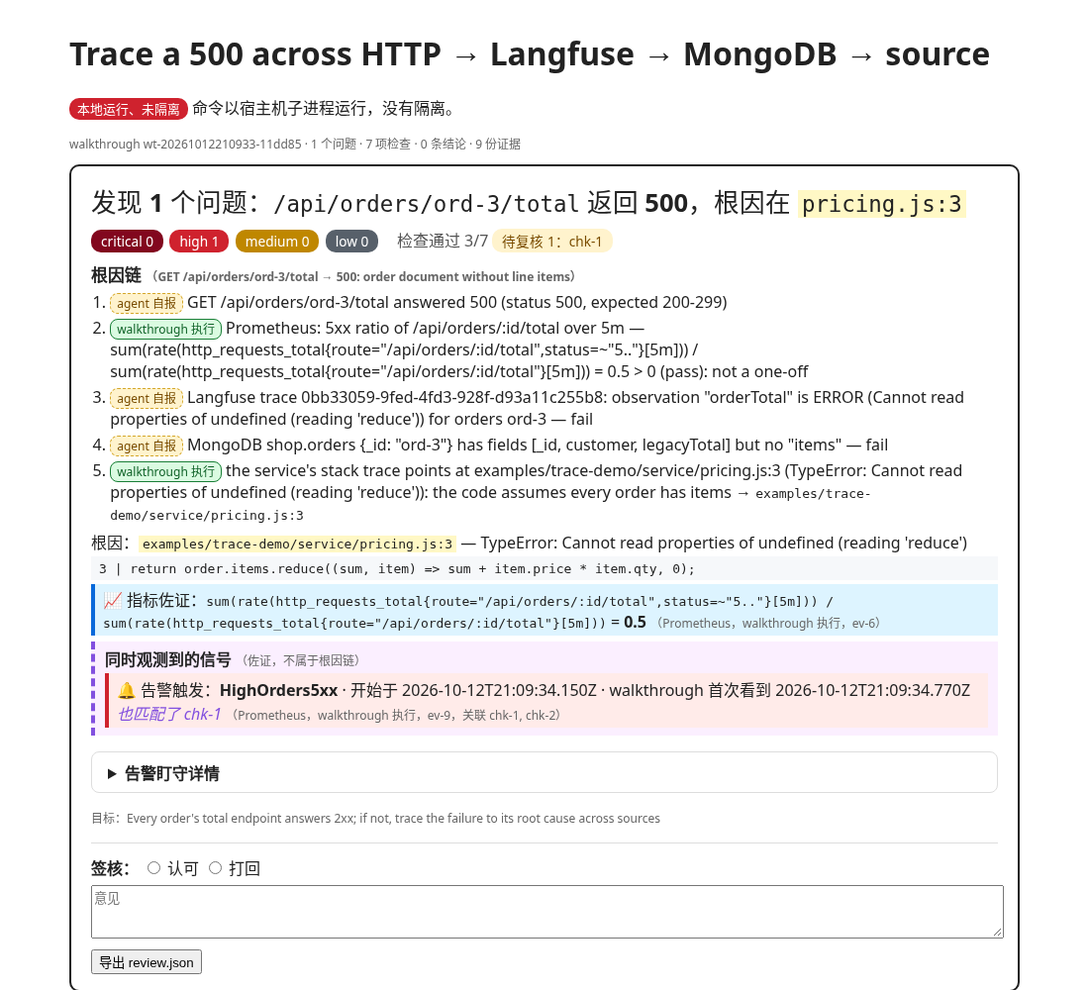
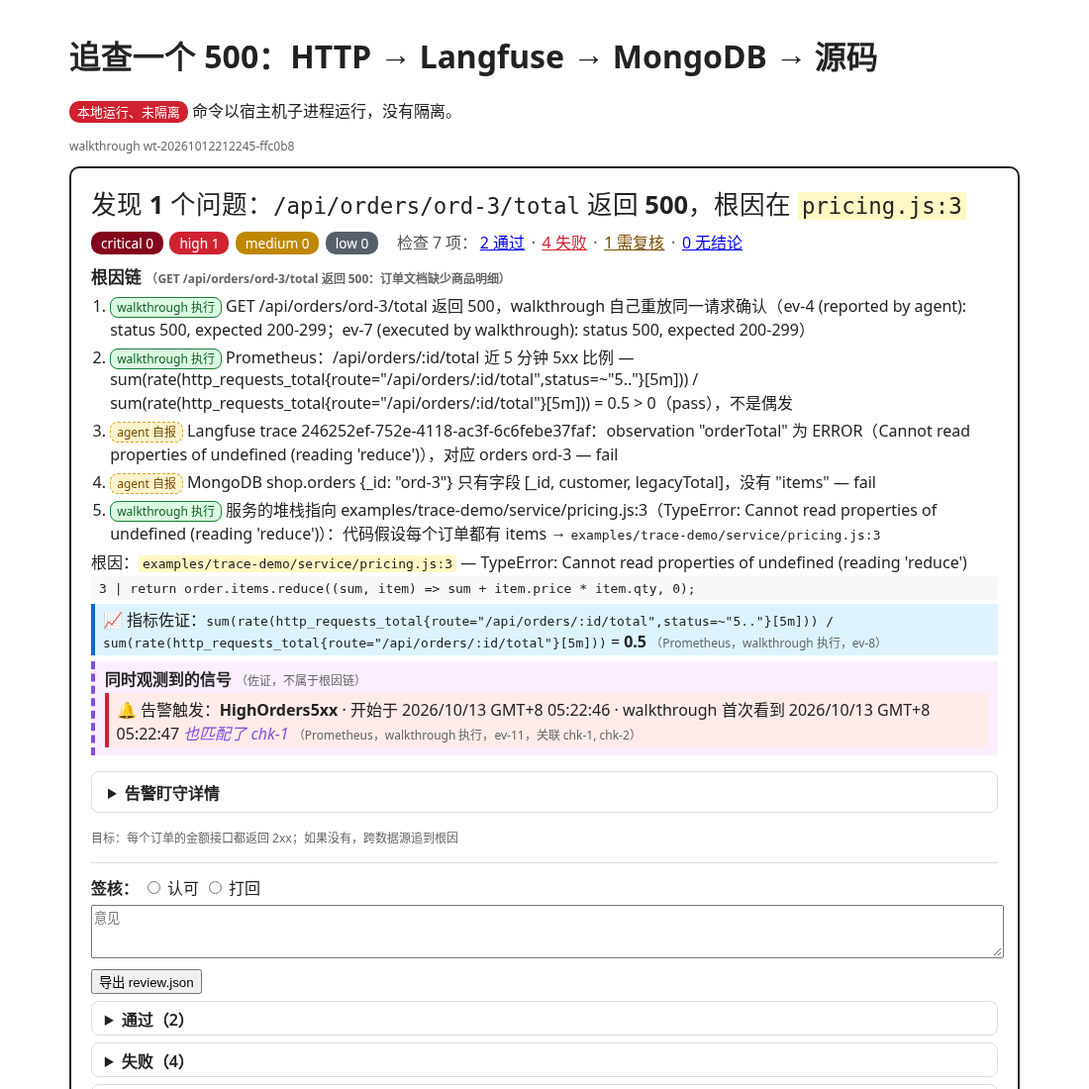
demo: core replay backs chain step 1; consistent check counts (通过/失败/需复核/无结论, clickable); local-time rendering with UTC tooltip; Chinese demo data; prompt asks for user's language

Changed region(s): [[0.0618, 0.031, 0.9273, 0.992], [0.9273, 0.992, 0.9582, 1.0], [0.0618, 0.992, 0.0927, 1.0]]

diff --git a/src/core/render.ts b/src/core/render.ts
@@ -5,12 +5,32 @@ import { harSummary, parseHar } from "./har.js";
 import { metricSummary } from "./metrics.js";
 import { ALERTS_EVIDENCE } from "./alerts.js";
 
+/** Zone for the static (no-JS) time text: explicit option, WALKTHROUGH_TZ, TZ, else the system zone. */
+export function renderTimeZone(explicit?: string): string {
+  for (const z of [explicit, process.env.WALKTHROUGH_TZ, process.env.TZ]) {
+    if (!z) continue;
+    try { new Intl.DateTimeFormat("en", { timeZone: z }); return z; } catch { /* invalid zone: try next */ }
+  }
+  return Intl.DateTimeFormat().resolvedOptions().timeZone || "UTC";
+}
+export function fmtTime(d: Date, tz: string): string {
+  const parts = new Intl.DateTimeFormat("sv-SE", { timeZone: tz, year: "numeric", month: "2-digit", day: "2-digit", hour: "2-digit", minute: "2-digit", second: "2-digit", hour12: false }).format(d);
+  return `${parts} (${tz})`;
+}
 const esc = (s: string) =>
   s.replace(/&/g, "&amp;").replace(/</g, "&lt;").replace(/>/g, "&gt;").replace(/"/g, "&quot;").replace(/'/g, "&#39;");
 
 /** Render a static HTML walkthrough: one section per question. Returns the HTML path. */
-export function renderWalkthrough(core: WalkthroughCore, id: string): string {
+export function renderWalkthrough(core: WalkthroughCore, id: string, opts: { timeZone?: string } = {}): string {
   const w = core.load(id);
+  const tz = renderTimeZone(opts.timeZone);
+  /** No-JS fallback in the configured zone; the page script re-renders it in the viewer's zone. UTC ISO in the tooltip. */
+  const t = (iso?: string) => {
+    if (!iso) return "?";
+    const d = new Date(iso);
+    if (Number.isNaN(d.getTime())) return esc(iso);
+    return `<time datetime="${esc(d.toISOString())}" title="${esc(d.toISOString())} (UTC)">${esc(fmtTime(d, tz))}</time>`;
+  };
   const local = w.sandbox.backend === "local";
   const localBadge = local ? `<span class="badge local" title="local run, not isolated">本地运行、未隔离</span> ` : "";
   const count = (f: (c: (typeof w.claims)[number]) => boolean) => w.claims.filter(f).length;
@@ -23,10 +43,10 @@ export function renderWalkthrough(core: WalkthroughCore, id: string): string {
   const evidenceHtml = (ids: string[]) => ids.map((evId) => {
     const ev = w.evidence.find((e) => e.id === evId);
     if (!ev) return `<p class="missing">missing evidence ${esc(evId)}</p>`;
-    const meta = `<div class="meta">${esc(ev.id)} · ${esc(ev.kind ?? ev.type)} · ${ev.executedBy === "agent" ? '<span class="prov agent">agent 自报</span>' : '<span class="prov core">walkthrough 执行</span>'} · ${esc(ev.source)}${ev.mcpCall ? ` · <code class="mcpcall">${esc(ev.mcpCall.server)}.${esc(ev.mcpCall.tool)}(${esc(JSON.stringify(ev.mcpCall.params))})</code>` : ""}${ev.links?.length ? ` · linked ${esc(ev.links.map((l) => `${l.evidenceId} by "${l.key}"`).join(", "))}` : ""} · sha256 ${esc(ev.sha256.slice(0, 12))}… · ${esc(ev.createdAt)}</div>`;
+    const meta = `<div class="meta">${esc(ev.id)} · ${esc(ev.kind ?? ev.type)} · ${ev.executedBy === "agent" ? '<span class="prov agent">agent 自报</span>' : '<span class="prov core">walkthrough 执行</span>'} · ${esc(ev.source)}${ev.mcpCall ? ` · <code class="mcpcall">${esc(ev.mcpCall.server)}.${esc(ev.mcpCall.tool)}(${esc(JSON.stringify(ev.mcpCall.params))})</code>` : ""}${ev.links?.length ? ` · linked ${esc(ev.links.map((l) => `${l.evidenceId} by "${l.key}"`).join(", "))}` : ""} · sha256 ${esc(ev.sha256.slice(0, 12))}… · ${t(ev.createdAt)}</div>`;
     const har = ev.type === "har" ? parseHar(core.readEvidenceText(w, ev)) : undefined;
     const alertDoc = ev.kind === "alert" ? (() => { try { const j = JSON.parse(core.readEvidenceText(w, ev)); return j.format === ALERTS_EVIDENCE ? j : undefined; } catch { return undefined; } })() : undefined;
-    if (alertDoc) return `<figure data-type="alert" data-prov="core">${meta}<pre class="alert-summary">${esc(`${alertDoc.note} · window ${alertDoc.window.start} → ${alertDoc.window.end} · ${alertDoc.polls} poll(s)`)}${(alertDoc.firing as { labels: Record<string, string>; annotations: Record<string, string> }[]).map((a) => esc(`\n🔔 ${a.labels.alertname ?? "?"} ${JSON.stringify(a.labels)} ${a.annotations.summary ?? ""}`)).join("")}</pre><details><summary>alerts (redacted)</summary><pre>${esc(core.readEvidenceText(w, ev).slice(0, 8000))}</pre></details></figure>`;
+    if (alertDoc) return `<figure data-type="alert" data-prov="core">${meta}<pre class="alert-summary">${esc(alertDoc.note)} · 窗口 ${t(alertDoc.window.start)} → ${t(alertDoc.window.end)}${esc(` · ${alertDoc.polls} poll(s)`)}${(alertDoc.firing as { labels: Record<string, string>; annotations: Record<string, string> }[]).map((a) => esc(`\n🔔 ${a.labels.alertname ?? "?"} ${JSON.stringify(a.labels)} ${a.annotations.summary ?? ""}`)).join("")}</pre><details><summary>alerts (redacted)</summary><pre>${esc(core.readEvidenceText(w, ev).slice(0, 8000))}</pre></details></figure>`;
     const met = ev.kind === "metric" ? metricSummary(core.readEvidenceText(w, ev)) : undefined;
     const body = met ? `<pre class="metric-summary">${esc(met.query)} = ${esc(String(met.value ?? (met.ok ? "(no single value)" : "(query failed)")))}</pre><details><summary>Prometheus response</summary><pre>${esc(core.readEvidenceText(w, ev).slice(0, 8000))}</pre></details>`
       : ev.type === "screenshot"
@@ -58,19 +78,17 @@ export function renderWalkthrough(core: WalkthroughCore, id: string): string {
   const alertLine = (f: (typeof findings)[number]) => {
     const items = (w.alertWatches ?? []).flatMap((aw) => aw.matched.filter((m) => m.findingId === f.id).map((m) => {
       const also = m.checkIds.filter((c) => c !== f.checkId);
-      return `<div class="alert-confirm" data-alert="${esc(m.alertname)}" data-first-seen="${esc(m.firstSeenAt ?? "")}">🔔 告警触发：<b>${esc(m.alertname)}</b> · 开始于 <time>${esc(m.activeAt ?? "?")}</time> · walkthrough 首次看到 <time>${esc(m.firstSeenAt ?? "?")}</time>${aw.outcome === "interrupted" ? ' <span class="chip interrupted">盯守中断</span>' : ""}${also.length ? ` <span class="also-matched" data-also="${esc(also.join(","))}">也匹配了 ${esc(also.join(", "))}</span>` : ""} <span class="meta">（Prometheus，walkthrough 执行，${esc(aw.evidenceId)}，关联 ${esc(m.checkIds.join(", "))}）</span></div>`;
+      return `<div class="alert-confirm" data-alert="${esc(m.alertname)}" data-first-seen="${esc(m.firstSeenAt ?? "")}">🔔 告警触发：<b>${esc(m.alertname)}</b> · 开始于 ${t(m.activeAt)} · walkthrough 首次看到 ${t(m.firstSeenAt)}${aw.outcome === "interrupted" ? ' <span class="chip interrupted">盯守中断</span>' : ""}${also.length ? ` <span class="also-matched" data-also="${esc(also.join(","))}">也匹配了 ${esc(also.join(", "))}</span>` : ""} <span class="meta">（Prometheus，walkthrough 执行，${esc(aw.evidenceId)}，关联 ${esc(m.checkIds.join(", "))}）</span></div>`;
     }));
     return items.length ? `<div class="corroborating" data-corroborating="${items.length}"><b>同时观测到的信号</b> <span class="meta">（佐证，不属于根因链）</span>${items.join("")}</div>` : "";
   };
   const watches = w.alertWatches ?? [];
   const unmatchedAlerts = watches.flatMap((aw) => aw.unmatched.map((u) => ({ ...u, ev: aw.evidenceId })));
   const outcomeTxt = (aw: (typeof watches)[number]) => aw.outcome === "interrupted" ? "⚠ 盯守中断（数据不完整，不代表窗口内无告警）" : aw.outcome === "stopped_early" ? "窗口结束前已收取" : "窗口已走完";
-  const alertsBlock = watches.length ? `<div class="alerts-sum">${watches.map((aw) => `<div class="alert-window ${esc(aw.outcome)}" data-outcome="${esc(aw.outcome)}" data-firing="${aw.matched.length + aw.unmatched.length}">🔔 告警盯守 ${esc(aw.watchId)} ${esc(aw.start)} → ${esc(aw.end)} (${aw.polls} 次轮询，${esc(aw.evidenceId)}, ${esc(outcomeTxt(aw))}${aw.finalizedBy === "sign_off" ? "，签核时自动结束" : ""}): ${aw.matched.length + aw.unmatched.length ? `已关联 ${aw.matched.length}，未关联 ${aw.unmatched.length}` : aw.errors?.length && aw.errors.length && aw.polls === 0 ? "无轮询" : aw.outcome === "interrupted" ? "中断前未见触发的告警" : aw.errors?.length ? `轮询出错：${esc(aw.errors.join("; "))}` : "窗口内无告警"}</div>`).join("")}
+  const alertsBlock = watches.length ? `<div class="alerts-sum">${watches.map((aw) => `<div class="alert-window ${esc(aw.outcome)}" data-outcome="${esc(aw.outcome)}" data-firing="${aw.matched.length + aw.unmatched.length}">🔔 告警盯守 ${esc(aw.watchId)} ${t(aw.start)} → ${t(aw.end)} (${aw.polls} 次轮询，${esc(aw.evidenceId)}, ${esc(outcomeTxt(aw))}${aw.finalizedBy === "sign_off" ? "，签核时自动结束" : ""}): ${aw.matched.length + aw.unmatched.length ? `已关联 ${aw.matched.length}，未关联 ${aw.unmatched.length}` : aw.errors?.length && aw.errors.length && aw.polls === 0 ? "无轮询" : aw.outcome === "interrupted" ? "中断前未见触发的告警" : aw.errors?.length ? `轮询出错：${esc(aw.errors.join("; "))}` : "窗口内无告警"}</div>`).join("")}
 ${unmatchedAlerts.length ? `<div class="unmatched-alerts" data-unmatched="${unmatchedAlerts.length}"><b>未关联的告警</b>（没有检查的匹配规则命中，未挂到任何问题上）：<ul>${unmatchedAlerts.map((u) => `<li><span class="chip ${esc(u.severity)}">${esc(u.severity)}</span> ${esc(u.alertname)} <code>${esc(JSON.stringify(u.labels))}</code> <span class="meta">${esc(u.ev)}</span></li>`).join("")}</ul></div>` : ""}</div>` : "";
   const autoFin = w.signoff?.autoFinalizedWatches ?? [];
   const autoFinNote = autoFin.length ? `<div class="auto-finalized" data-auto-finalized="${autoFin.length}">⚠ 签核时自动结束的告警盯守：${autoFin.map((a) => `<span class="aw ${esc(a.outcome)}" data-outcome="${esc(a.outcome)}">${esc(a.watchId)} (${a.outcome === "interrupted" ? "<b>interrupted</b> — 数据不完整" : esc(a.outcome)})</span>`).join(", ")}</div>` : "";
-  const passed = results.filter((r) => r.status === "pass").length;
-  const needsReview = results.filter((r) => r.status === "pass_needs_review");
   const sevRank = (x: string) => { const i = (SEV as readonly string[]).indexOf(x); return i < 0 ? 9 : i; };
   const ordered = [...findings].sort((x, y) => sevRank(x.severity) - sevRank(y.severity));
   const top = ordered[0];
@@ -89,12 +107,21 @@ ${unmatchedAlerts.length ? `<div class="unmatched-alerts" data-unmatched="${unma
     const src = srcOf(l.source_ref);
     return `<li class="rc-step" data-prov="${prov}">${provLabel(prov)} ${esc(l.claim)}${src ? ` → <code>${esc(src.file)}:${src.line}</code>` : ""}</li>`;
   }).join("")}</ol>`;
+  const allChecks = w.checks ?? [];
+  const statusOf = (cid: string) => results.find((r) => r.checkId === cid)?.status;
+  const buckets: [string, string, (st?: string) => boolean][] = [
+    ["pass", "通过", (st) => st === "pass"], ["fail", "失败", (st) => st === "fail"],
+    ["needs-review", "需复核", (st) => st === "pass_needs_review"], ["none", "无结论", (st) => st !== "pass" && st !== "fail" && st !== "pass_needs_review"],
+  ];
+  const grouped = buckets.map(([key, label, f]) => ({ key, label, list: allChecks.filter((c) => f(statusOf(c.id))) }));
+  const checkCounts = `<span class="check-counts" data-total="${allChecks.length}">检查 ${allChecks.length} 项：${grouped.map((g) => `<a class="cc cc-${g.key}" href="#checks-${g.key}" data-status="${g.key}" data-count="${g.list.length}"${g.key === "needs-review" ? ` data-needs-review="${g.list.length}"` : ""} onclick="var d=document.getElementById('checks-${g.key}');if(d)d.open=true">${g.list.length} ${g.label}</a>`).join(" · ")}</span>`;
+  const checkLists = grouped.map((g) => `<details class="check-bucket" id="checks-${g.key}" data-status="${g.key}"><summary>${g.label}（${g.list.length}）</summary>${g.list.length ? `<ul>${g.list.map((c) => { const r = results.find((x) => x.checkId === c.id); return `<li data-check="${esc(c.id)}"><code>${esc(c.id)}</code> ${esc(c.intent)}${r?.reasons.length ? ` <span class="meta">— ${esc(r.reasons.join("; "))}</span>` : ""}</li>`; }).join("")}</ul>` : "<p class=\"meta\">无</p>"}</details>`).join("");
   const verdict = `<section class="verdict" id="verdict">
 <div class="headline" data-findings="${findings.length}">${top
     ? `发现 <b>${findings.length}</b> 个问题：${sentence(top)}`
     : "未发现问题"}</div>
 <div class="sev">${SEV.map((s) => `<span class="chip ${s}" data-sev="${s}">${s} ${sevCount(s)}</span>`).join("")}
-<span class="checks-sum">检查通过 ${passed + needsReview.length}/${results.length}</span> <span class="chip needs-review" data-needs-review="${needsReview.length}" title="只有 agent 自报证据的通过项，需人工复核">待复核 ${needsReview.length}${needsReview.length ? `：${esc(needsReview.map((r) => r.checkId).join(", "))}` : ""}</span></div>
+${checkCounts}</div>
 ${top ? `<div class="top-finding" data-finding="${esc(top.id)}"><h3>根因链 <span class="meta">（${esc(top.title)}）</span></h3>
 ${firstChain(top)}
 <div class="rc">根因：${rootCauseLine(top)}</div>${metricLine(top)}${alertLine(top)}</div>` : ""}
@@ -110,6 +137,7 @@ ${w.goal ? `<p class="goal meta">目标：${esc(w.goal)}</p>` : ""}
 ${autoFinNote}
 ${w.signoff ? `<div class="signed ${esc(w.signoff.decision)}">已签核：<b>${w.signoff.decision === "accept" ? "认可" : "打回"}</b>${w.signoff.comment ? ` — ${esc(w.signoff.comment)}` : ""}</div>` : ""}
 </div>
+<div class="check-lists">${checkLists}</div>
 </section>`;
   const findingDetails = findings.map((f) => {
     const steps = f.root_cause_chain.map((l, i) => {
@@ -129,7 +157,7 @@ ${f.repro_steps.length ? `<p><b>Repro:</b></p><ol>${f.repro_steps.map((r) => `<l
   }).join("\n");
   const row = (c: NonNullable<typeof w.checks>[number]) => {
     const r = results.find((x) => x.checkId === c.id);
-    return `<tr class="${esc(r?.status ?? "notrun")}"><td>${esc(c.id)} ${esc(c.intent)}<div class="meta">${esc(c.method)}: ${esc(c.target)}${c.appended ? ` · 追查中追加 after ${esc(c.appended.triggeringEvidenceId)} (log #${c.appended.logSeq}, ${esc(c.appended.at)})` : ""}</div></td><td><code>${esc(JSON.stringify(c.expect))}</code></td><td>${esc(r?.status ?? "not run")}${r?.reasons.length ? `: ${esc(r.reasons.join("; "))}` : ""}</td><td>${esc((r?.evidenceIds ?? []).join(", "))}</td></tr>`;
+    return `<tr class="${esc(r?.status ?? "notrun")}"><td>${esc(c.id)} ${esc(c.intent)}<div class="meta">${esc(c.method)}: ${esc(c.target)}${c.appended ? ` · 追查中追加 after ${esc(c.appended.triggeringEvidenceId)} (log #${c.appended.logSeq}, ${t(c.appended.at)})` : ""}</div></td><td><code>${esc(JSON.stringify(c.expect))}</code></td><td>${esc(r?.status ?? "not run")}${r?.reasons.length ? `: ${esc(r.reasons.join("; "))}` : ""}</td><td>${esc((r?.evidenceIds ?? []).join(", "))}</td></tr>`;
   };
   const head = "<tr><th>check</th><th>expected (judged by core)</th><th>result</th><th>evidence</th></tr>";
   const original = (w.checks ?? []).filter((c) => !c.appended), appended = (w.checks ?? []).filter((c) => c.appended);
@@ -172,7 +200,7 @@ img{max-width:100%;border:1px solid #ccc}pre{background:#f6f8fa;padding:.5rem;ov
 .verdict{border:2px solid #222;border-radius:10px;padding:1rem 1.25rem}.headline{font-size:1.6rem}
 .chip{display:inline-block;padding:2px 10px;border-radius:10px;font-size:.85rem;margin-right:.4rem;background:#eee;color:#222}
 .chip.critical{background:#82071e;color:#fff}.chip.high{background:#cf222e;color:#fff}.chip.medium{background:#bf8700;color:#fff}.chip.low{background:#57606a;color:#fff}
-.sev{margin:.5rem 0}.checks-sum{color:#555;margin-left:.5rem}.finding-list li{margin:.6rem 0}.rc{margin:.2rem 0}.loc{background:#fff8c5;padding:1px 4px}
+.sev{margin:.5rem 0}.check-counts{color:#555;margin-left:.5rem}.cc{margin:0 .15rem}.cc-fail{color:#cf222e}.cc-needs-review{color:#7a4d00}.check-bucket{margin:.4rem 0;padding:.3rem .8rem}.finding-list li{margin:.6rem 0}.rc{margin:.2rem 0}.loc{background:#fff8c5;padding:1px 4px}
 .code code{display:block;background:#f6f8fa;padding:.3rem .5rem;margin-top:.2rem;white-space:pre-wrap}
 .signoff{margin-top:1rem;padding-top:.75rem;border-top:1px solid #ddd}.signoff textarea{width:100%;height:3rem;margin:.4rem 0}
 details{border:1px solid #ddd;border-radius:8px;padding:.5rem 1rem;margin:1rem 0}summary{cursor:pointer;font-weight:600}
@@ -188,7 +216,7 @@ li.step.prov-agent{border-left:4px dashed #d4a72c;padding-left:6px}li.step.prov-
 </style></head><body>
 <h1>${esc(w.title)}</h1>
 ${local ? `<p>${localBadge}命令以宿主机子进程运行，没有隔离。</p>` : ""}
-<p class="meta">walkthrough ${esc(w.id)} · ${findings.length} 个问题 · ${results.length} 项检查 · ${w.claims.length} 条结论 · ${w.evidence.length} 份证据</p>
+<p class="meta">walkthrough ${esc(w.id)}</p>
 ${verdict}
 ${findingDetails ? `<h2>问题详情（证据链）</h2>\n${findingDetails}` : ""}
 ${checksTable}
@@ -197,6 +225,7 @@ ${summary}
 ${sections}
 </details>
 <script>
+document.querySelectorAll("time[datetime]").forEach(function(el){var d=new Date(el.getAttribute("datetime"));if(!isNaN(d))el.textContent=d.toLocaleString(undefined,{year:"numeric",month:"2-digit",day:"2-digit",hour:"2-digit",minute:"2-digit",second:"2-digit",hour12:false,timeZoneName:"short"});});
 const WID=${JSON.stringify(w.id)};const decisions={};
 document.querySelectorAll(".claim").forEach(s=>{
   const st=s.querySelector(".state");if(s.dataset.prior){decisions[s.dataset.claim]=s.dataset.prior;st.textContent=s.dataset.prior;}

diff --git a/src/demo-agent/trace.ts b/src/demo-agent/trace.ts
@@ -9,7 +9,7 @@ export interface McpClients {
   /** Stand-in for mongodb.find({database, collection, filter}). */
   find(database: string, collection: string, filter: Record<string, unknown>): Promise<unknown[]>;
 }
-export interface TraceOptions { goal: string; baseUrl: string; orders: string[]; service?: string; settleMs?: number; /** Corroborate with Prometheus (core query_metrics). */ metrics?: boolean }
+export interface TraceOptions { goal: string; baseUrl: string; orders: string[]; service?: string; settleMs?: number; /** Corroborate with Prometheus (core query_metrics). */ metrics?: boolean; /** Let walkthrough replay the failing request itself (core replay_request). */ replay?: boolean }
 
 /** 5xx ratio of the orders total route over 5m (one series). */
 export const FIVE_XX_RATIO = 'sum(rate(http_requests_total{route="/api/orders/:id/total",status=~"5.."}[5m])) / sum(rate(http_requests_total{route="/api/orders/:id/total"}[5m]))';
@@ -19,9 +19,9 @@ const esc = (s: string) => s.replace(/[.*+?^${}()|[\]\\]/g, "\\$&");
 export function planTraceChecks(o: TraceOptions): Check[] {
   const base = o.baseUrl.replace(/\/$/, "");
   return o.orders.flatMap((ord, i): Check[] => [
-    { id: `chk-${i + 1}`, intent: `GET /api/orders/${ord}/total answers 2xx`, method: "http", target: `GET ${base}/api/orders/${ord}/total`, expect: { type: "status", value: [200, 299] }, severity_if_fail: "high",
+    { id: `chk-${i + 1}`, intent: `GET /api/orders/${ord}/total 返回 2xx`, method: "http", target: `GET ${base}/api/orders/${ord}/total`, expect: { type: "status", value: [200, 299] }, severity_if_fail: "high",
       ...(o.metrics ? { alertMatchers: [{ route: "/api/orders/:id/total" }] } : {}) },
-    { id: `chk-${i + 1}-logs`, intent: `no error alerts in ${o.service ?? "app"} logs for ${ord}`, method: "cli", target: `logs:${o.service ?? "app"}`, expect: { type: "absent", value: DEFAULT_ALERTS.map(esc).join("|") }, severity_if_fail: "high" },
+    { id: `chk-${i + 1}-logs`, intent: `${o.service ?? "app"} 日志中 ${ord} 没有报错`, method: "cli", target: `logs:${o.service ?? "app"}`, expect: { type: "absent", value: DEFAULT_ALERTS.map(esc).join("|") }, severity_if_fail: "high" },
   ]);
 }
 
@@ -42,57 +42,64 @@ export async function runTraceAgent(core: WalkthroughCore, id: string, mcp: McpC
     await new Promise((r) => setTimeout(r, o.settleMs ?? 300));
     const httpEv = await core.captureEvidence(id, { type: "submit", checkId: main.id, kind: "http", source: { tool: "fetch", command: out.repro }, content: out.evidenceText });
     const logEv = await core.captureEvidence(id, { type: "logs", service, delta: true, checkId: `${main.id}-logs` });
-    const r = await core.evaluateCheck(id, { checkId: main.id, evidenceIds: [httpEv.id] });
+    // walkthrough re-sends the request itself (method + URL only, SSRF policy, hash-chained) so the symptom is core-executed.
+    let replayEv: { id: string } | undefined;
+    if (o.replay && (out.status ?? 0) >= 500) {
+      const har = { log: { version: "1.2", creator: { name: "trace-agent", version: "1" }, entries: [{ startedDateTime: new Date().toISOString(), request: { method, url, headers: [], cookies: [], queryString: [] }, response: { status: out.status, headers: [], cookies: [], content: { mimeType: "application/json", text: out.body } } }] } };
+      const harEv = await core.captureEvidence(id, { type: "submit", checkId: main.id, kind: "har", source: { tool: "fetch", command: out.repro }, content: JSON.stringify(har) });
+      replayEv = await core.replayHar(id, { checkId: main.id, evidenceId: harEv.id, method: "GET" });
+    }
+    const r = await core.evaluateCheck(id, { checkId: main.id, evidenceIds: replayEv ? [httpEv.id, replayEv.id] : [httpEv.id] });
     await core.evaluateCheck(id, { checkId: `${main.id}-logs`, evidenceIds: [logEv.id] });
     if (r.status !== "fail") continue;
 
     // Follow the 500: trace id from the response → Langfuse trace → the Mongo doc it names → stack frame.
     const traceId = /"traceId"\s*:\s*"([\w-]+)"/.exec(out.body)?.[1];
-    const chain: RootCauseLink[] = [{ claim: `${main.target.replace(/https?:\/\/[^/]+/, "")} answered ${out.status} (${r.reasons.join("; ")})`, kind: "observed", evidence_ids: [httpEv.id] }];
+    const chain: RootCauseLink[] = [{ claim: replayEv ? `${main.target.replace(/https?:\/\/[^/]+/, "")} 返回 ${out.status}，walkthrough 自己重放同一请求确认（${r.reasons.join("；")}）` : `${main.target.replace(/https?:\/\/[^/]+/, "")} 返回 ${out.status}（${r.reasons.join("；")}）`, kind: "observed", evidence_ids: replayEv ? [replayEv.id, httpEv.id] : [httpEv.id] }];
     let more: Check[] = [];
     if (o.metrics) {
       // Corroborate the single failing request with production-style metrics, queried by walkthrough itself.
       const mId = `${main.id}-5xx`;
       await core.planChecks(id, { goal: o.goal, append: true, triggeringEvidenceId: httpEv.id, checks: [
-        { id: mId, intent: "metrics corroborate: 5xx ratio of /api/orders/:id/total over 5m > 0", method: "script", target: `prometheus ${FIVE_XX_RATIO}`, expect: { type: "metric", value: { op: ">", value: 0, query: FIVE_XX_RATIO } }, severity_if_fail: "medium" },
+        { id: mId, intent: "指标佐证：/api/orders/:id/total 近 5 分钟 5xx 比例 > 0", method: "script", target: `prometheus ${FIVE_XX_RATIO}`, expect: { type: "metric", value: { op: ">", value: 0, query: FIVE_XX_RATIO } }, severity_if_fail: "medium" },
       ] });
       const mEv = await core.queryMetrics(id, { query: FIVE_XX_RATIO, checkId: mId });
       const mRes = await core.evaluateCheck(id, { checkId: mId, evidenceIds: [mEv.id] });
-      chain.push({ claim: `Prometheus: 5xx ratio of /api/orders/:id/total over 5m — ${mRes.reasons.join("; ")} (${mRes.status}): not a one-off`, kind: "observed", evidence_ids: [mEv.id] });
+      chain.push({ claim: `Prometheus：/api/orders/:id/total 近 5 分钟 5xx 比例 — ${mRes.reasons.join("；")}（${mRes.status}），不是偶发`, kind: "observed", evidence_ids: [mEv.id] });
     }
     if (traceId) {
       const trace = await mcp.getTrace(traceId) as { metadata?: { db?: string; collection?: string; orderId?: string }; observations?: { name: string; level: string; statusMessage?: string }[] };
       const n = main.id;
       more = [
-        { id: `${n}-trace`, intent: `Langfuse trace ${traceId} has no ERROR observation`, method: "mcp", target: `langfuse.get_trace(${traceId})`, expect: { type: "absent", value: '"level": "ERROR"' }, severity_if_fail: "high" },
+        { id: `${n}-trace`, intent: `Langfuse trace ${traceId} 没有 ERROR 级 observation`, method: "mcp", target: `langfuse.get_trace(${traceId})`, expect: { type: "absent", value: '"level": "ERROR"' }, severity_if_fail: "high" },
       ];
       const meta = trace.metadata ?? {};
       if (meta.orderId && meta.collection) {
-        more.push({ id: `${n}-doc`, intent: `${meta.db}.${meta.collection} ${meta.orderId} has line items`, method: "mcp", target: `mongodb.find(${meta.collection}, {_id: ${meta.orderId}})`, expect: { type: "regex", value: '"items"\\s*:' }, severity_if_fail: "high" });
+        more.push({ id: `${n}-doc`, intent: `${meta.db}.${meta.collection} ${meta.orderId} 有商品明细（items）`, method: "mcp", target: `mongodb.find(${meta.collection}, {_id: ${meta.orderId}})`, expect: { type: "regex", value: '"items"\\s*:' }, severity_if_fail: "high" });
       }
       await core.planChecks(id, { goal: o.goal, checks: more, append: true, triggeringEvidenceId: httpEv.id });
       const tEv = await core.importMcpResult(id, { checkId: `${n}-trace`, connector: "langfuse", tool: "get_trace", params: { traceId }, result: trace, links: [{ evidenceId: httpEv.id, key: traceId }] });
       const tRes = await core.evaluateCheck(id, { checkId: `${n}-trace`, evidenceIds: [tEv.id] });
       const err = trace.observations?.find((x) => x.level === "ERROR");
-      chain.push({ claim: `Langfuse trace ${traceId}: observation "${err?.name}" is ERROR (${err?.statusMessage}) for ${meta.collection} ${meta.orderId} — ${tRes.status}`, kind: "observed", evidence_ids: [tEv.id] });
+      chain.push({ claim: `Langfuse trace ${traceId}：observation "${err?.name}" 为 ERROR（${err?.statusMessage}），对应 ${meta.collection} ${meta.orderId} — ${tRes.status}`, kind: "observed", evidence_ids: [tEv.id] });
       if (meta.orderId && meta.collection) {
         const filter = { _id: meta.orderId };
         const docs = await mcp.find(meta.db ?? "test", meta.collection, filter);
         const dEv = await core.importMcpResult(id, { checkId: `${n}-doc`, connector: "mongodb", tool: "find", params: { database: meta.db, collection: meta.collection, filter }, result: docs, links: [{ evidenceId: tEv.id, key: meta.orderId }] });
         const dRes = await core.evaluateCheck(id, { checkId: `${n}-doc`, evidenceIds: [dEv.id] });
         const fields = Object.keys((docs[0] ?? {}) as object).join(", ");
-        chain.push({ claim: `MongoDB ${meta.db}.${meta.collection} {_id: "${meta.orderId}"} has fields [${fields}] but no "items" — ${dRes.status}`, kind: "observed", evidence_ids: [dEv.id] });
+        chain.push({ claim: `MongoDB ${meta.db}.${meta.collection} {_id: "${meta.orderId}"} 只有字段 [${fields}]，没有 "items" — ${dRes.status}`, kind: "observed", evidence_ids: [dEv.id] });
       }
     }
     const w = core.load(id);
     const hit = traceStack(core.readEvidenceText(w, w.evidence.find((e) => e.id === logEv.id)!), w.sandbox.cwd, core.root);
     if (hit) {
       const src = await core.linkSource(id, { file: hit.file, line: hit.line, note: hit.message });
-      chain.push({ claim: `the service's stack trace points at ${hit.file}:${hit.line} (${hit.message}): the code assumes every order has items`, kind: "observed", evidence_ids: [logEv.id], source_ref: src.id });
+      chain.push({ claim: `服务的堆栈指向 ${hit.file}:${hit.line}（${hit.message}）：代码假设每个订单都有 items`, kind: "observed", evidence_ids: [logEv.id], source_ref: src.id });
     }
     await core.recordFinding(id, {
-      title: `${main.target.replace(/https?:\/\/[^/]+/, "")} → 500: order document without line items`, severity: "high", check_id: main.id,
-      symptom: `${main.target} answered ${out.status}${traceId ? ` (trace ${traceId})` : ""}`,
+      title: `${main.target.replace(/https?:\/\/[^/]+/, "")} 返回 500：订单文档缺少商品明细`, severity: "high", check_id: main.id,
+      symptom: `${main.target} 返回 ${out.status}${traceId ? `（trace ${traceId}）` : ""}`,
       repro_steps: [out.repro, ...(traceId ? [`langfuse.get_trace({traceId: "${traceId}"})`] : []), ...more.slice(1).map((c) => c.target)],
       root_cause_chain: chain,
     });

diff --git a/test/render-time.test.ts b/test/render-time.test.ts
@@ -1,0 +1,38 @@
+import { mkdtempSync, readFileSync, writeFileSync } from "node:fs";
+import { tmpdir } from "node:os";
+import { join } from "node:path";
+import { describe, expect, it } from "vitest";
+import { fmtTime, Redactor, renderTimeZone, renderWalkthrough, WalkthroughCore, type Sandbox } from "../src/core/index.js";
+import { SB } from "./helpers.js";
+
+const sandbox: Sandbox = { up: async () => ({ exitCode: 0, output: "" }), down: async () => ({ exitCode: 0, output: "" }), exec: async () => ({ exitCode: 0, output: "" }), logs: async () => "" };
+
+describe("times on the audit page", () => {
+  it("static fallback in the configured zone, UTC ISO in the tooltip, re-rendered in the viewer's zone by script", async () => {
+    const root = mkdtempSync(join(tmpdir(), "wt-time-"));
+    const core = new WalkthroughCore({ root, sandboxFactory: () => sandbox, capturer: { screenshot: async (_u, o) => writeFileSync(o, "png") }, redactor: new Redactor([]), now: () => new Date("2026-10-12T20:00:00Z") });
+    const w = core.startWalkthrough({ title: "t", sandbox: SB });
+    await core.planChecks(w.id, { goal: "g", checks: [{ id: "a", intent: "a", method: "http", target: "GET /a", expect: { type: "status", value: 200 }, severity_if_fail: "high" }] });
+    const ev = await core.captureEvidence(w.id, { type: "submit", checkId: "a", kind: "http", source: { tool: "t" }, content: "HTTP/1.1 500" });
+    await core.recordFinding(w.id, { title: "500", severity: "high", symptom: "s", check_id: "a", root_cause_chain: [{ claim: "c", kind: "observed", evidence_ids: [ev.id] }] });
+    const taipei = readFileSync(renderWalkthrough(core, w.id, { timeZone: "Asia/Taipei" }), "utf8");
+    expect(taipei).toContain('<time datetime="2026-10-12T20:00:00.000Z" title="2026-10-12T20:00:00.000Z (UTC)">2026-10-13 04:00:00 (Asia/Taipei)</time>');
+    expect(taipei).toMatch(/querySelectorAll\("time\[datetime\]"\)[^\n]*toLocaleString/);
+    const la = readFileSync(renderWalkthrough(core, w.id, { timeZone: "America/Los_Angeles" }), "utf8");
+    expect(la).toContain(">2026-10-12 13:00:00 (America/Los_Angeles)</time>");
+  });
+  it("zone resolution: option > WALKTHROUGH_TZ > TZ > system; invalid zones skipped", () => {
+    const old = { a: process.env.WALKTHROUGH_TZ, b: process.env.TZ };
+    try {
+      process.env.WALKTHROUGH_TZ = "Europe/Berlin"; process.env.TZ = "Asia/Tokyo";
+      expect(renderTimeZone("Asia/Taipei")).toBe("Asia/Taipei");
+      expect(renderTimeZone()).toBe("Europe/Berlin");
+      process.env.WALKTHROUGH_TZ = "Not/AZone";
+      expect(renderTimeZone()).toBe("Asia/Tokyo");
+      expect(fmtTime(new Date("2026-01-01T00:00:00Z"), "UTC")).toBe("2026-01-01 00:00:00 (UTC)");
+    } finally {
+      if (old.a === undefined) delete process.env.WALKTHROUGH_TZ; else process.env.WALKTHROUGH_TZ = old.a;
+      if (old.b === undefined) delete process.env.TZ; else process.env.TZ = old.b;
+    }
+  });
+});

diff --git a/src/demo-agent/trace-run.ts b/src/demo-agent/trace-run.ts
@@ -24,11 +24,14 @@ async function main(): Promise<void> {
   };
   // Prometheus (read-only) is optional: when configured, its host is the only replay/metrics allowlist entry.
   const prom = process.env.WALKTHROUGH_PROMETHEUS_URL ? new URL(process.env.WALKTHROUGH_PROMETHEUS_URL) : undefined;
-  const core = createCore(values.root ?? process.cwd(), undefined, prom ? { allowHosts: [prom.host], allowCidrs: prom.hostname === "127.0.0.1" ? ["127.0.0.1/32"] : [] } : undefined);
   const cfg = loadFlowConfig(flowFile);
   const a = ((readJsonFile(flowFile) as { agent?: { goal: string; baseUrl: string; service?: string; orders: string[] } }).agent)!;
+  // Allowlist: the service under test (for replay_request) + Prometheus when configured. Local demo → loopback only.
+  const svc = new URL(a.baseUrl);
+  const hosts = [svc.host, ...(prom ? [prom.host] : [])];
+  const core = createCore(values.root ?? process.cwd(), undefined, { allowHosts: hosts, allowCidrs: [svc, ...(prom ? [prom] : [])].some((u) => u.hostname === "127.0.0.1") ? ["127.0.0.1/32"] : [] });
   try {
-    const r = await runFlow(core, cfg, { agent: (id) => runTraceAgent(core, id, mcp, { ...a, metrics: !!prom }) });
+    const r = await runFlow(core, cfg, { agent: (id) => runTraceAgent(core, id, mcp, { ...a, metrics: !!prom, replay: true }) });
     console.log(JSON.stringify(r));
   } finally { await mongo.close(); }
 }

diff --git a/test/audit.test.ts b/test/audit.test.ts
@@ -100,7 +100,7 @@ describe("demo agent executes, core judges, finding points at the real bug (plan
     expect(w.findings ?? []).toHaveLength(0);
     const html = readFileSync(renderWalkthrough(core, w.id), "utf8");
     expect(html).toContain('data-findings="0"');
-    expect(html).toContain("检查通过 6/6");
+    expect(html).toMatch(/data-total="6">检查 6 项：<a class="cc cc-pass"[^>]*data-count="3"/);
   }, T);
 });
 

diff --git a/README.md b/README.md
@@ -58,7 +58,9 @@ Ctrl-C). After `npm ci` it needs no network: the mongod binary is downloaded onc
 
 The audit page's first screen (readable in ~30 s): one-sentence verdict, root-cause chain with every step labelled
 **walkthrough 执行** (core-executed) or **agent 自报** (agent-reported), corroborating signals, the needs-review count,
-sign-off. Everything else is collapsed.
+sign-off. The check summary reads `N 通过 · N 失败 · N 需复核 · N 无结论` (each opens its list). Times show in the
+viewer's local zone (UTC ISO in the tooltip); without JS they fall back to `WALKTHROUGH_TZ` / `TZ` / the system zone.
+Everything else is collapsed. Step 1 of the demo chain is walkthrough's own `replay_request` of the failing call.
 
 ![audit page first screen](docs/audit-page.png)
 
@@ -149,6 +151,7 @@ Secrets go in the environment of the process that launches the server, never in 
 ```text
 You are verifying the change "<one-line description>" in <project> with the walkthrough MCP tools.
 Rules: walkthrough judges, you execute. Never state a verdict yourself; only evaluate_check decides pass/fail.
+Write check intents, findings and every root-cause chain step in the user's language (<e.g. 中文>).
 
 1. start_walkthrough {title, sandbox}; run_in_sandbox up.
 2. plan_checks {goal, checks}: one check per user-visible behaviour the change touches. Each check has method,
